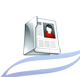
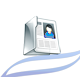
Styles for users

Changed region(s): [[0.55, 0.3896, 0.7, 0.5195]]

diff --git a/src/odbase/var/www/css/manageUsers.sh.css b/src/odbase/var/www/css/manageUsers.sh.css
@@ -1,3 +1,6 @@
-li.user a {
+.iconlist li.user {
 	background: url("/images/default/user.png") no-repeat center center;
+}
+.iconlist li.admin {
+	background: url("/images/default/admin.png") no-repeat center center;
 }
